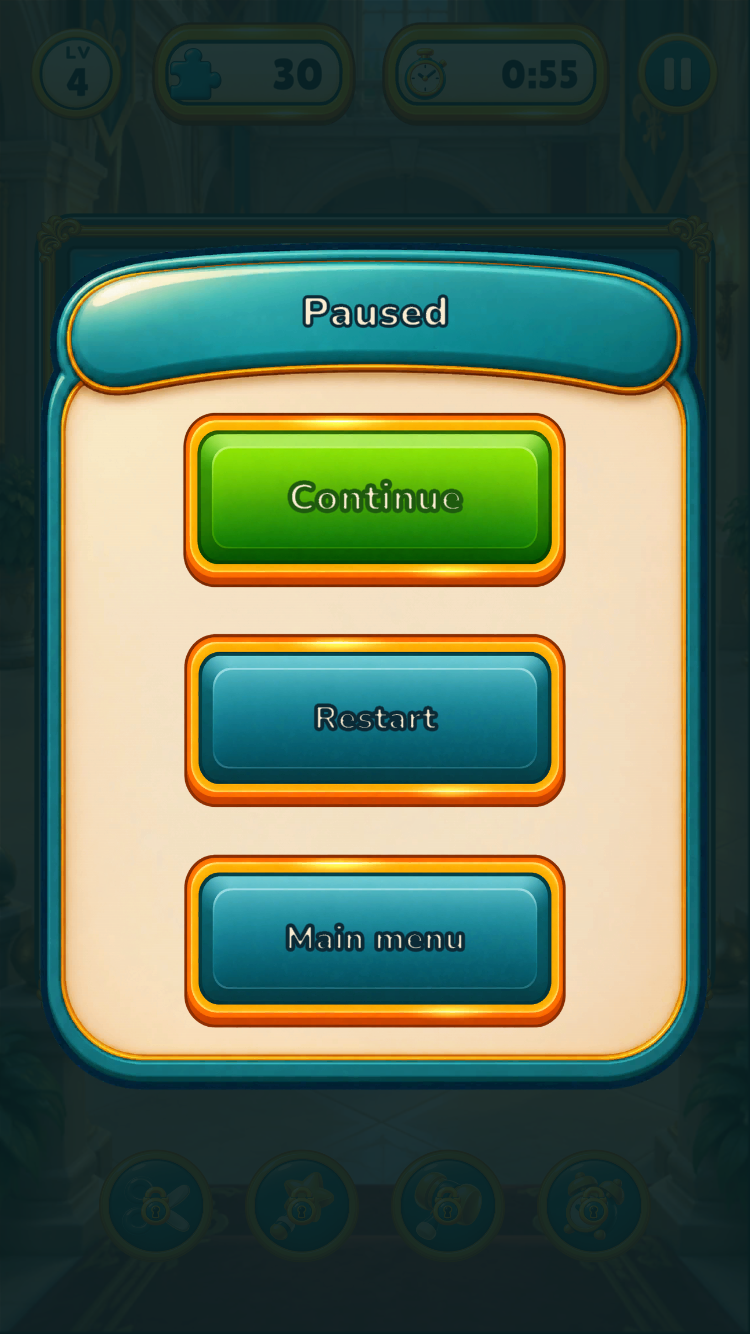
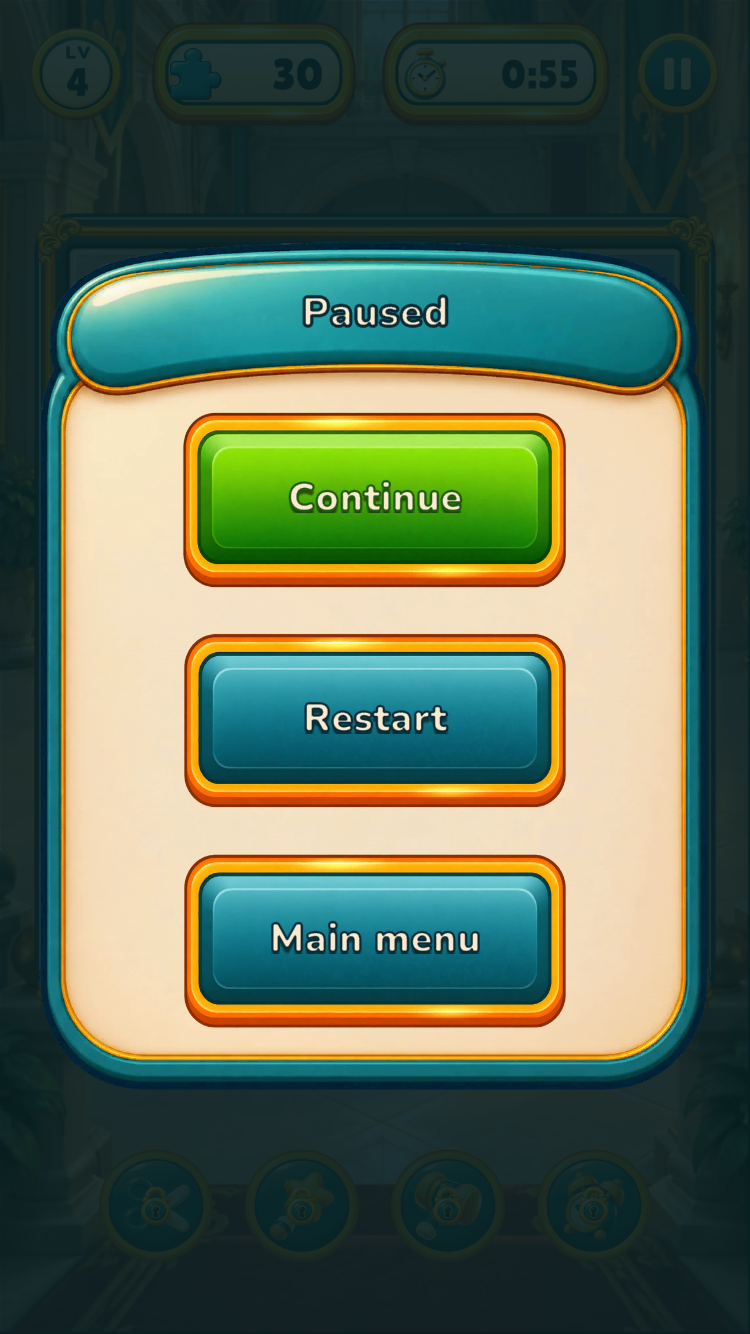
PM_MESAJ_40/41: tutorial jams as tut, spotlight gates input, intro after profile, no end-of-level rating, title-style card buttons

Changed region(s): [[0.3373, 0.6762, 0.644, 0.7376], [0.368, 0.3381, 0.6133, 0.3996], [0.3987, 0.5225, 0.6133, 0.5532]]

diff --git a/Assets/_Game/Presentation/GameRoot.cs b/Assets/_Game/Presentation/GameRoot.cs
@@ -219,6 +219,8 @@ namespace ReverseSolver.Presentation
             if (_telemetry.Enabled) _profileQueue.Add(m.Cohort + "|" + _save.Player + "|" + m.DeviceId, ProfileRow.Json(m.Cohort, _save.Player, m.DeviceId, m.Platform, exp));
             _profileSender.Flush();
             CloseCard();
+            // PM_MESAJ_40: the question may have covered a level's intro card; it comes back, never swallowed
+            if (_mode == Mode.Playing && _introOpen) OpenCard("intro", Screens.Intro(_world, _screen, _session.Level, CardOrder));
         }
 
         /* 1-10 after a level: SET40 with a cohort asks once per level (win or loss, "Skip" allowed); without a cohort
@@ -689,7 +691,8 @@ namespace ReverseSolver.Presentation
 
         void OnEvent(GameEvent e)
         {
-            if (_zeydbotSet && !(e.Kind == EventKind.Jammed && _session.TutorialMove)) RecordMove(e);
+            if (_zeydbotSet && e.Kind == EventKind.Jammed && _session.TutorialMove) WriteMove("tut", e.Piece, _drag?.Direction?.ToString());
+            else if (_zeydbotSet) RecordMove(e);
             if (e.Kind == EventKind.Jammed || (e.Kind == EventKind.PieceRemoved && !e.ByHammer)) _tutorialClockHold = false;
             if (e.Kind == EventKind.Jammed && TutorialActive && _tutorialSteps[_tutorialAt].tur == "hata" &&
                 _tutorialUntil < 0 && e.Piece == _tutorialMove.Piece)
@@ -741,10 +744,12 @@ namespace ReverseSolver.Presentation
             // G8: the attempt that gets the 👍/👎 question waits for the answer (or the card closing)
             // before its row goes; asked once per level, on the win or after the third loss
             string levelId = _session.Level.Id;
-            bool ask = !_showSet && SetFlags.AskFun && FunAsk.ShouldAsk(e.Outcome, _save.LossesOf(levelId), _save.WasFunAsked(levelId));
+            // PM_MESAJ_41 (Zeyd): no end-of-level rating; the row goes with empty zorluk_puani/keyif, set_rating stays unused
+            const bool askRatings = false;
+            bool ask = askRatings && !_showSet && SetFlags.AskFun && FunAsk.ShouldAsk(e.Outcome, _save.LossesOf(levelId), _save.WasFunAsked(levelId));
             if (SetFlags.AskFun && (e.Outcome == Outcome.Time || e.Outcome == Outcome.Bomb)) _save.RecordLoss(levelId);
             _askFun = ask;
-            _askHard = e.Outcome != Outcome.Quit && !_showSet && AskHardNow(levelId);
+            _askHard = askRatings && e.Outcome != Outcome.Quit && !_showSet && AskHardNow(levelId);
             if (_askHard) HardAsked(levelId);                       // asked once per level (cohort), answered or skipped
             if (ask) _save.MarkFunAsked(levelId);
             // PM_MESAJ_29: the row goes now, empty answers; the 1-10 and 👍/👎 fill it later (rpc/set_rating)
@@ -1044,6 +1049,9 @@ namespace ReverseSolver.Presentation
                 ShowMenu();
                 return;
             }
+            // PM_MESAJ_40: before the clock runs (intro, card, spotlight, any tutorial step) a jam is a 'tut' row, never a jam
+            if (_mode == Mode.Playing && _session != null)
+                _session.TutorialMove = TutorialActive || _introOpen || _card != null || _tutorialClockHold && _session.Moves == 0;
             if (!_awaitingName) HandlePointer();
             if (_pendingHard > 0 && Time.unscaledTime >= _hardDue)
             {
@@ -1175,7 +1183,7 @@ namespace ReverseSolver.Presentation
 
         bool InputGated(Pointer p)
         {
-            object cards = _card ?? (object)_list?.Card;
+            object cards = _card ?? (object)_list?.Card ?? _spotlight;   // PM_MESAJ_40: a spotlight closing gates too
             if (cards != _gateCard)
             {
                 _gateCard = cards;

diff --git a/Assets/_Game/Presentation/Ui/Card.cs b/Assets/_Game/Presentation/Ui/Card.cs
@@ -148,8 +148,9 @@ namespace ReverseSolver.Presentation
                         sprite.transform.localPosition = Draw.W(0, y + spriteHeight / 2);
                         _pressArt.Add((Buttons.Count, sprite, spriteKey + "-pressed"));
                     }
-                    CardText(_content, "label " + id, label, Compact ? 16 : primary ? 20 : 17, Palette.Cream, order: _order + 3)
-                        .Outline(primary ? Draw.Hex("#1E5A0E") : Palette.Navy, .3f)
+                    // PM_MESAJ_41: the title's style (>= 20 pt, thin rim, drop shadow); a .3 rim ate the glyphs on iPhone Safari
+                    CardText(_content, "label " + id, label, 20, Palette.Cream, order: _order + 3)
+                        .Outline(primary ? Draw.Hex("#1E5A0E") : Palette.Navy, .15f).Shadow(Draw.Rgba(0, 0, 0, .55f), 2)
                         .transform.localPosition = Draw.W(0, y + spriteHeight / 2 - 3);
                     float hitHeight = Mathf.Max(44, spriteHeight * .8f);
                     Buttons.Add((new Rect(-width / 2, y + (spriteHeight - hitHeight) / 2, width, hitHeight), id));
@@ -199,8 +200,8 @@ namespace ReverseSolver.Presentation
                     string key = T23 ? Art.T23Secondary : "btn2-secondary";
                     var art = Art.Place(_content, key, new Vector2(bw, bh), _order + 2);
                     if (art != null) { art.transform.localPosition = Draw.W(x, by); _pressArt.Add((Buttons.Count, art, key + "-pressed")); }
-                    CardText(_content, "label " + items[i].id, items[i].label, 16, Palette.Cream, true, order: _order + 3)
-                        .Outline(Palette.Navy, .3f).transform.localPosition = Draw.W(x, by - 2);
+                    CardText(_content, "label " + items[i].id, items[i].label, T23 ? 20 : 16, Palette.Cream, true, order: _order + 3)
+                        .Outline(Palette.Navy, T23 ? .15f : .3f).Shadow(Draw.Rgba(0, 0, 0, T23 ? .55f : 0), 2).transform.localPosition = Draw.W(x, by - 2);
                     float hitH = T23 ? Mathf.Max(44, bh * .8f) : bh * .8f;
                     Buttons.Add((new Rect(x - bw / 2, y + (bh - hitH) / 2, bw, hitH), items[i].id));
                 }

diff --git a/OVERNIGHT.md b/OVERNIGHT.md
@@ -1,3 +1,6 @@
+# PM_MESAJ_40+41 yayında (3 Kasım ~22:35): /p20/ gh-pages c50e76e, sürüm web-p20-2026-11-03 (canlıda Supabase app_version doğrulandı; TEST_P39 satırları etiket değişmeden önceki build'dendi). Jam: S43'te tanıtım sonrası çivi spotlight'ı ilk dokunuşla kapanıyor, hemen sonraki dokunuş vurgulanan çivili parçaya gidip jam sayılıyordu → spotlight kapanması da PM_38 kilidine girdi; eğitim/tanıtım/kart açıkken jam 'tut' satırı, jams'e girmez. Profil sorusu tanıtımı yutuyordu (doğrudan bölüm linkinde) → cevaptan sonra tanıtım yeniden açılıyor. Puanlama kaldırıldı (zorluk_puani/keyif null, canlıda doğrulandı; set_rating kodu duruyor). Önceki koşul: 1–10 yalnız c=<kohort> linkinde ve o bölümde ilk kez; 👍/👎 kazanınca ya da 3. kayıpta, bölüm başına bir kez. Kart düğmeleri başlık stiline çekildi (Nunito Black 20 pt, kontur .3→.15, aşağı gölge).
+- Doğrulama: testler 588/590; yerel boot + davet GEÇTİ (S42/S43/S06 jams 0, jam satırı yok); baron GEÇTİ. WebKit doğrulanamadı: Playwright WebKit (Windows) oyunu hiç açamıyor, canlı eski p19/p20 de aynı "Out of bounds call_indirect" hatası → ortam sorunu; düğme okunurluğu iPhone'da Zeyd'e kaldı. Yapılmadı: bölüm 5/28/koleksiyon/koridor ve 375×667 kart sığma görüntüleri. Görüntüler docs/qa/2026-11-03-son-kontrol (chromium_/test_ önekli).
+
 # PM_MESAJ_39 yayında (3 Kasım ~21:40): /p20/ gh-pages a177501, sürüm web-p20-2026-11-03. Tablolar: Task25 40 tablo gh-pages /paintings-v2/'den (kök/p19 eski /paintings/'te), başlıklar manifest-v2; geometri/level_version değişmedi. Kartlar (Codex): 02 kazanma, 06 puan kutuları, 03/04 kayıp, 05 durdurma, 07–15 tanıtım/booster/zor (yeni metin), 17 isim (HTML), 18 profil. Dokular 4'ün katına tamamlandı ve MenuArtImport t23 sınırı 2048 yapıldı (eskiden 512/1024'e küçülüp sıkıştırılamıyordu); paneller crunch 30.
 - Boyut: Brotli 16,09 MB (PM_38: 14,45; +1,64 MB > 1 MB sınırı) → PM kararı: kalan büyüme 5 panel (~0,85 MB) + 9 sahne; daha azı için ortak panel/9-slice çizimi gerekir. Testler 588/590. Yerel boot/harita/baron/bolum1 GEÇTİ; redesign KALDI (araç yeni krem paneli renkle tanımıyor, kart görüntüde var); davet: S42/S06 temiz, S43'te çözümden önce 1 jam (araç taraması, tanıtım sonrası karartma sanılıp tahtaya dokunuldu olabilir; doğrulanmadı). Yapılmadı: zorluk_puani 7 testi, bölüm 5/28/koleksiyon/koridor görüntüleri, 375×667 kart sığma kontrolü, iPhone. Canlı boot GEÇTİ.
 
